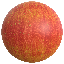
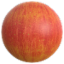
Refactored with newimage resizing library

diff --git a/src/main/java/com/github/ltgr/turbo/Resizer.java b/src/main/java/com/github/ltgr/turbo/Resizer.java
@@ -1,10 +1,11 @@
 package com.github.ltgr.turbo;
 
+import org.imgscalr.Scalr;
+
 import java.io.IOException;
 import java.io.File;
 import java.awt.image.BufferedImage;
 import javax.imageio.ImageIO;
-import java.awt.Graphics2D;
 
 
 public class Resizer {
@@ -57,19 +58,23 @@ public class Resizer {
          */
         try {
             BufferedImage input = ImageIO.read(img);
-            BufferedImage output = new BufferedImage(width, height, BufferedImage.TYPE_INT_RGB);
-
-            Graphics2D g2d = output.createGraphics();
-            g2d.drawImage(input, 0, 0, width, height, null);
-            g2d.dispose();
+            BufferedImage output = Scalr.resize(
+                input,
+                Scalr.Method.AUTOMATIC,
+                Scalr.Mode.AUTOMATIC,
+                width,
+                height,
+                Scalr.OP_ANTIALIAS
+            );
 
             String filename = dir + "/resized/" + img.getName();
             String extension = img.getName().substring(img.getName().lastIndexOf(".") + 1);
 
             ImageIO.write(output, extension, new File(filename));
+        } catch(IOException e){
+            System.out.println("Problem reading files from assets directory");
+            System.exit(1);
 
-        } catch (IOException e) {
-            System.out.println("Error opening asset directories, please make sure the directory exists and is accessibly by the user");
             return false;
         }
 

diff --git a/src/main/java/com/github/ltgr/turbo/Main.java b/src/main/java/com/github/ltgr/turbo/Main.java
@@ -1,7 +1,5 @@
 package com.github.ltgr.turbo;
 
-import java.io.File;
-
 
 public class Main {
 
@@ -10,6 +8,7 @@ public class Main {
     static int cols;
     static String path;
     static String hotkey;
+    static int sleep;
 
     public static void main(String[] args) throws InterruptedException {
         // config
@@ -18,6 +17,7 @@ public class Main {
         cols = 8;
         path = args[0];
         hotkey = "alt + w";
+        sleep = 10;
         // config
 
         Window window = new Window("Turbo", cols * 60, 480, path, autopaste, autoenter);

diff --git a/src/main/java/com/github/ltgr/turbo/EventSimulator.java b/src/main/java/com/github/ltgr/turbo/EventSimulator.java
@@ -32,9 +32,12 @@ public class EventSimulator {
     public void run(TurboImage image) throws InterruptedException {
         this.copier.copyImage(image.handle);
 
+        Thread.sleep(10);
+
         if(this.autopaste) this.clipboardPaste();
 
         Thread.sleep(10);
+
         if(this.autoenter) this.typeEnter();
 
     }
